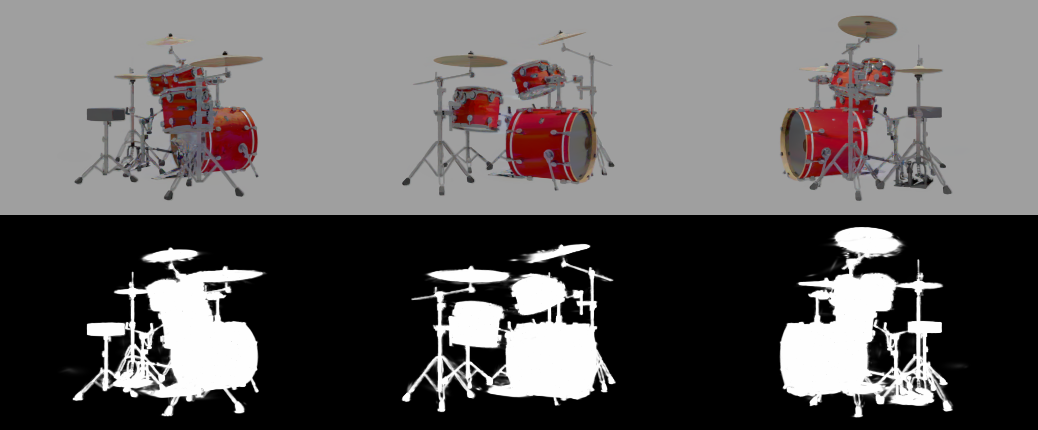
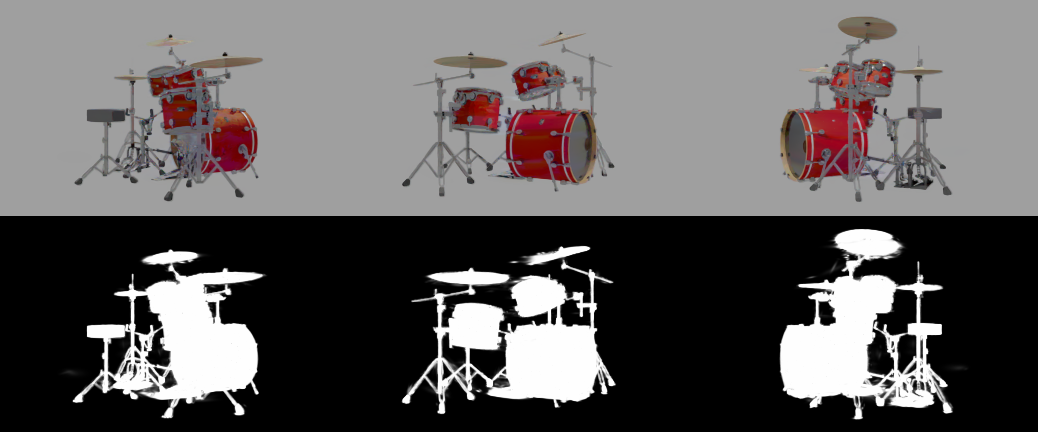
Version v0.6; result panels at a common size in one column

diff --git a/README.md b/README.md
@@ -9,7 +9,7 @@ Train 3D Gaussian Splatting from event-camera data, as a [nerfstudio](https://do
 
 ## Updates
 
-- **Unreleased:** ported to nerfstudio 1.1.5 and gsplat 1.4.0 (`ESplatfactoModel` now subclasses `SplatfactoModel`; `ns-export` works); lego 29.1 dB, drums 31.0 dB PSNR. Custom-data support ([docs/CUSTOM_DATA.md](docs/CUSTOM_DATA.md): any sensor size, `intrinsics.txt`, `timestamps.txt`, world up-axis, scale normalisation) and `.ply` export.
+- **2026-11-20, v0.6:** ported to nerfstudio 1.1.5 and gsplat 1.4.0 (`ESplatfactoModel` now subclasses `SplatfactoModel`; `ns-export` works); lego 29.1 dB, drums 31.0 dB PSNR. Custom-data support ([docs/CUSTOM_DATA.md](docs/CUSTOM_DATA.md): any sensor size, `intrinsics.txt`, `timestamps.txt`, world up-axis, scale normalisation) and `.ply` export.
 - **2026-11-20, v0.5:** training recipe aligned with the official Event3DGS implementation; background haze removed. Lego 28.9 dB, drums 30.9 dB PSNR.
 - **2026-11-20, v0.4:** fixed the event-supervision bugs behind the v0.32 floaters.
 - **2024-11-08, v0.32:** first public release.
@@ -31,13 +31,11 @@ Open the viewer at `http://localhost:7007` while it trains. On an RTX PRO 6000, 
 
 Renders at three azimuths, level with the training ring and pulled back 15-30% so the whole object fits (top), and their opacity (bottom; black is empty space, so haze would show as grey), after 30k iterations.
 
-| Lego (synthetic) | Drums (synthetic) |
+| Scene | Renders (top) and opacity (bottom) |
 |---|---|
-| ![lego](./img/results_lego.png) | ![drums](./img/results_drums.png) |
-
-| Sewing (real) |
-|---|
-| ![sewing](./img/results_sewing.png) |
+| Lego (synthetic) | ![lego](./img/results_lego.png) |
+| Drums (synthetic) | ![drums](./img/results_drums.png) |
+| Sewing (real) | ![sewing](./img/results_sewing.png) |
 
 PSNR / SSIM / LPIPS on the 99 EventNeRF ground-truth views (log-affine colour alignment; ESplat: mean ± std over 3 training runs, seeds 42, 1, 2):
 

diff --git a/CHANGELOG.md b/CHANGELOG.md
@@ -1,6 +1,6 @@
 # Changelog
 
-## Unreleased
+## v0.6 (2026-11-20): nerfstudio 1.1.5 port, custom data, export
 
 - Ported to nerfstudio 1.1.5 and gsplat 1.4.0. `ESplatfactoModel` subclasses nerfstudio's `SplatfactoModel` and overrides only the event-specific parts (two renders per event window, both feeding densification; event loss; bound clipping; dataset background), so `esplatfacto.py` shrinks from 1043 to 310 lines and `ns-export gaussian-splat` accepts the model. Densification uses gsplat's `DefaultStrategy` with the 3DGS thresholds; Splatfacto's pause of `num_train_data` steps after each opacity reset and its training-time clamp are still disabled. Over seeds 42, 1, 2: lego 29.14 ± 0.08 dB / LPIPS 0.045 (v0.5 stack: 28.91 ± 0.16 / 0.048), drums 30.97 ± 0.02 dB / 0.040 (30.89 ± 0.08 / 0.040), about 8% fewer Gaussians, same off-orbit opacity; sewing (real) keeps its off-orbit opacity (0.14-0.16). README figures are regenerated from the ported models.
 - Custom data (`dataloader.py`, [docs/CUSTOM_DATA.md](docs/CUSTOM_DATA.md)): sensor size (`--width/--height`), intrinsics from `intrinsics.txt` or `--fx/--fy/--cx/--cy`, non-uniform pose times from `timestamps.txt`, pose world up-axis (`--world-up`), and `--normalize` to bring any capture to the scale the model's thresholds assume. Input checks for event coordinates, polarities, pose matrices and timestamp units. With explicit intrinsics, `--type` selects only the event settings. EventNeRF scenes preprocess to identical `transforms.json` files as before.
